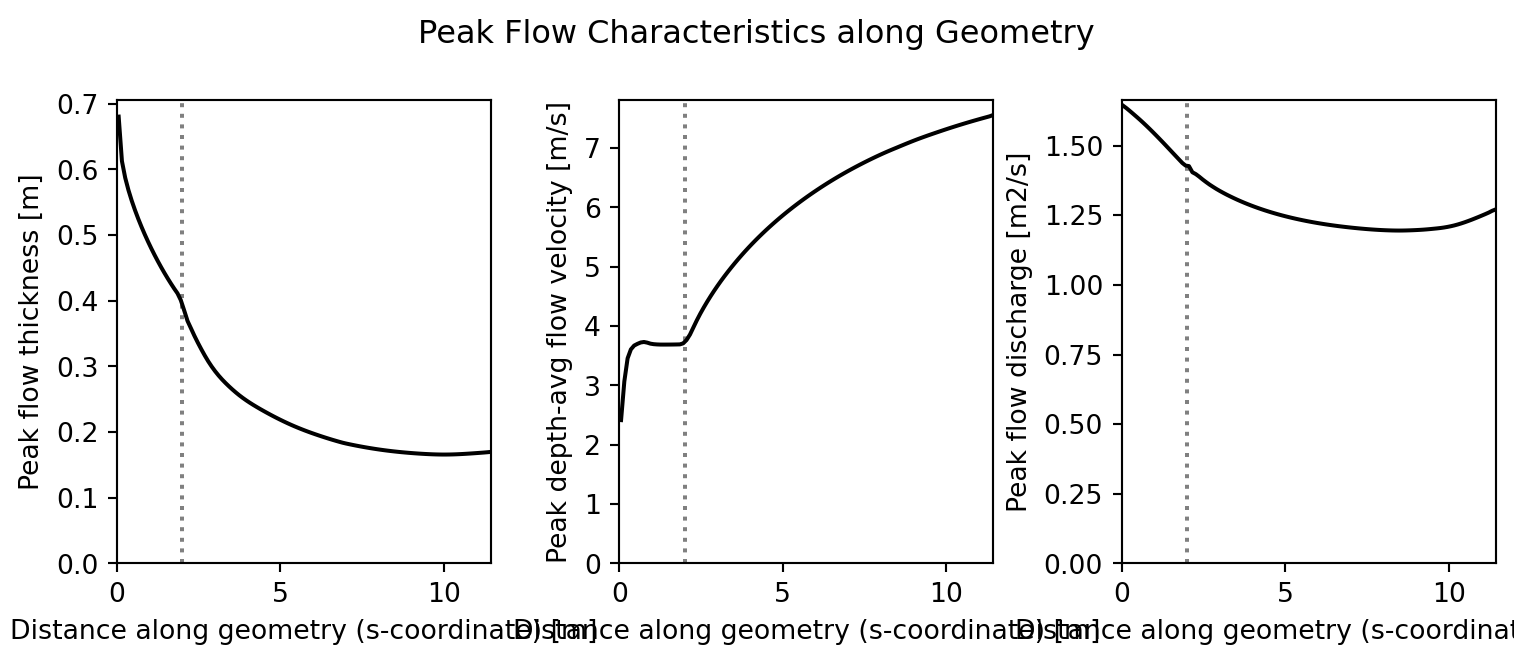
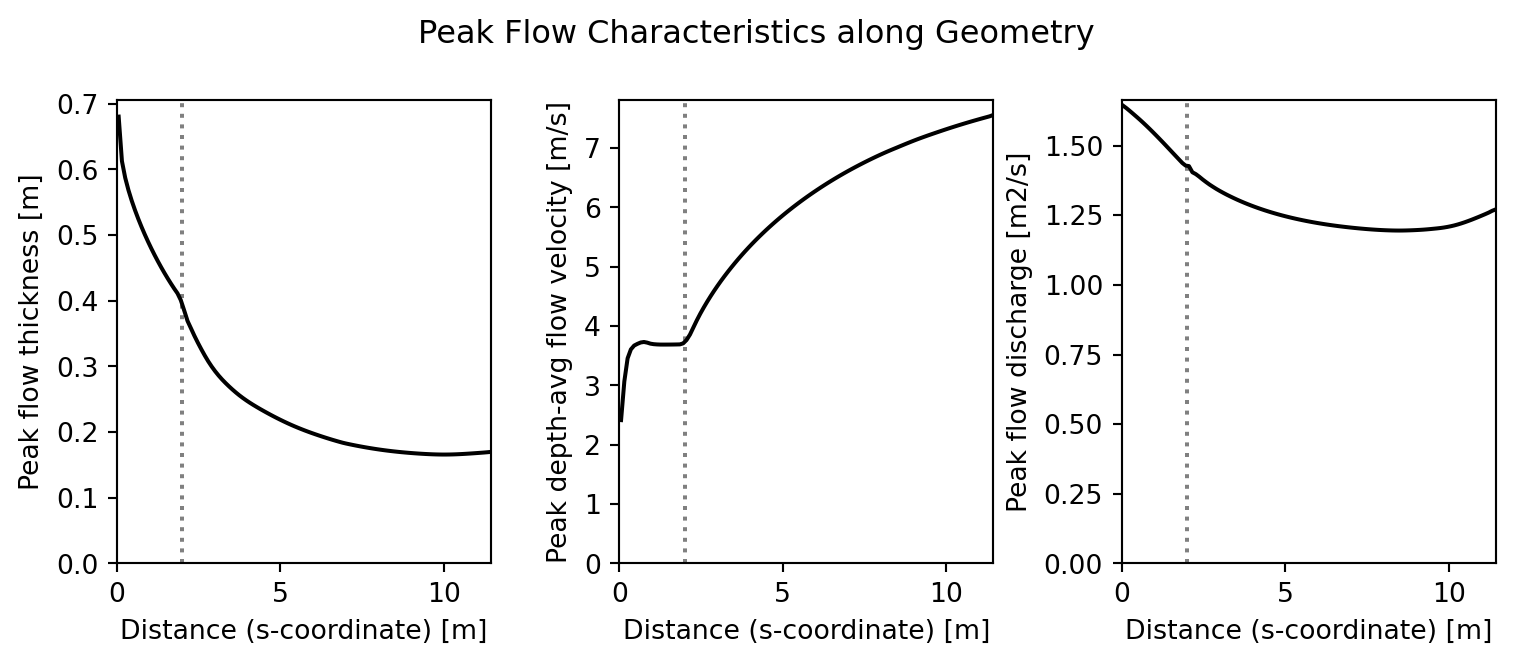
deploy: 645d021af738228c2d3d73dcb12be5013b461c52

Changed region(s): [[0.0, 0.9337, 1.0, 0.9639]]

diff --git a/examples/notebooks/basic_example.html b/examples/notebooks/basic_example.html
@@ -224,10 +224,10 @@ pre > code.sourceCode > span > a:first-child::before { text-decoration: underlin
 <span id="cb3-10"><a href="#cb3-10" aria-hidden="true" tabindex="-1"></a><span class="co"># 4) Run the simulation</span></span>
 <span id="cb3-11"><a href="#cb3-11" aria-hidden="true" tabindex="-1"></a>results <span class="op">=</span> sim.run(geometry, bc, Limiter.minmod, Flux.HLL, TimeIntegration.EF)</span></code><button title="Copy to Clipboard" class="code-copy-button"><i class="bi"></i></button></pre></div>
 <div class="cell-output cell-output-stderr">
-<pre><code>Simulating:   0%|          | 0.00/10.00 sSimulating:   6%|▌         | 0.55/10.00 sSimulating:  11%|█         | 1.10/10.00 sSimulating:  15%|█▍        | 1.49/10.00 sSimulating:  18%|█▊        | 1.78/10.00 sSimulating:  20%|██        | 2.01/10.00 sSimulating:  22%|██▏       | 2.19/10.00 sSimulating:  23%|██▎       | 2.33/10.00 sSimulating:  25%|██▍       | 2.45/10.00 sSimulating:  26%|██▌       | 2.56/10.00 sSimulating:  27%|██▋       | 2.65/10.00 sSimulating:  27%|██▋       | 2.74/10.00 sSimulating:  28%|██▊       | 2.82/10.00 sSimulating:  29%|██▉       | 2.89/10.00 sSimulating:  30%|██▉       | 2.96/10.00 sSimulating:  30%|███       | 3.03/10.00 sSimulating:  31%|███       | 3.10/10.00 sSimulating:  32%|███▏      | 3.17/10.00 sSimulating:  32%|███▏      | 3.24/10.00 sSimulating:  33%|███▎      | 3.31/10.00 sSimulating:  34%|███▍      | 3.38/10.00 sSimulating:  35%|███▍      | 3.45/10.00 sSimulating:  35%|███▌      | 3.52/10.00 sSimulating:  36%|███▌      | 3.59/10.00 sSimulating:  37%|███▋      | 3.66/10.00 sSimulating:  37%|███▋      | 3.73/10.00 sSimulating:  38%|███▊      | 3.81/10.00 sSimulating:  39%|███▉      | 3.88/10.00 sSimulating:  40%|███▉      | 3.95/10.00 sSimulating:  40%|████      | 4.03/10.00 sSimulating:  41%|████      | 4.11/10.00 sSimulating:  42%|████▏     | 4.18/10.00 sSimulating:  43%|████▎     | 4.26/10.00 sSimulating:  43%|████▎     | 4.34/10.00 sSimulating:  44%|████▍     | 4.42/10.00 sSimulating:  45%|████▌     | 4.50/10.00 sSimulating:  46%|████▌     | 4.58/10.00 sSimulating:  47%|████▋     | 4.67/10.00 sSimulating:  48%|████▊     | 4.75/10.00 sSimulating:  48%|████▊     | 4.84/10.00 sSimulating:  49%|████▉     | 4.93/10.00 sSimulating:  50%|█████     | 5.02/10.00 sSimulating:  51%|█████     | 5.11/10.00 sSimulating:  52%|█████▏    | 5.21/10.00 sSimulating:  53%|█████▎    | 5.30/10.00 sSimulating:  54%|█████▍    | 5.40/10.00 sSimulating:  55%|█████▌    | 5.51/10.00 sSimulating:  56%|█████▌    | 5.61/10.00 sSimulating:  57%|█████▋    | 5.72/10.00 sSimulating:  58%|█████▊    | 5.84/10.00 sSimulating:  60%|█████▉    | 5.95/10.00 sSimulating:  61%|██████    | 6.08/10.00 sSimulating:  62%|██████▏   | 6.20/10.00 sSimulating:  63%|██████▎   | 6.34/10.00 sSimulating:  65%|██████▍   | 6.48/10.00 sSimulating:  66%|██████▋   | 6.63/10.00 sSimulating:  68%|██████▊   | 6.78/10.00 sSimulating:  69%|██████▉   | 6.94/10.00 sSimulating:  71%|███████   | 7.11/10.00 sSimulating:  73%|███████▎  | 7.29/10.00 sSimulating:  75%|███████▍  | 7.48/10.00 sSimulating:  77%|███████▋  | 7.68/10.00 sSimulating:  79%|███████▉  | 7.88/10.00 sSimulating:  81%|████████  | 8.11/10.00 sSimulating:  83%|████████▎ | 8.34/10.00 sSimulating:  86%|████████▌ | 8.58/10.00 sSimulating:  88%|████████▊ | 8.83/10.00 sSimulating:  91%|█████████ | 9.08/10.00 sSimulating:  93%|█████████▎| 9.33/10.00 sSimulating:  96%|█████████▌| 9.58/10.00 sSimulating:  98%|█████████▊| 9.83/10.00 sSimulating: 100%|██████████| 10.00/10.00 s</code></pre>
+<pre><code>Simulating:   0%|          | 0.00/10.00 sSimulating:   6%|▌         | 0.57/10.00 sSimulating:  11%|█▏        | 1.13/10.00 sSimulating:  15%|█▌        | 1.54/10.00 sSimulating:  18%|█▊        | 1.83/10.00 sSimulating:  21%|██        | 2.05/10.00 sSimulating:  22%|██▏       | 2.23/10.00 sSimulating:  24%|██▍       | 2.38/10.00 sSimulating:  25%|██▌       | 2.50/10.00 sSimulating:  26%|██▌       | 2.61/10.00 sSimulating:  27%|██▋       | 2.70/10.00 sSimulating:  28%|██▊       | 2.78/10.00 sSimulating:  29%|██▊       | 2.86/10.00 sSimulating:  29%|██▉       | 2.94/10.00 sSimulating:  30%|███       | 3.02/10.00 sSimulating:  31%|███       | 3.09/10.00 sSimulating:  32%|███▏      | 3.16/10.00 sSimulating:  32%|███▏      | 3.24/10.00 sSimulating:  33%|███▎      | 3.31/10.00 sSimulating:  34%|███▍      | 3.38/10.00 sSimulating:  35%|███▍      | 3.45/10.00 sSimulating:  35%|███▌      | 3.53/10.00 sSimulating:  36%|███▌      | 3.60/10.00 sSimulating:  37%|███▋      | 3.68/10.00 sSimulating:  38%|███▊      | 3.75/10.00 sSimulating:  38%|███▊      | 3.83/10.00 sSimulating:  39%|███▉      | 3.91/10.00 sSimulating:  40%|███▉      | 3.98/10.00 sSimulating:  41%|████      | 4.06/10.00 sSimulating:  41%|████▏     | 4.14/10.00 sSimulating:  42%|████▏     | 4.22/10.00 sSimulating:  43%|████▎     | 4.30/10.00 sSimulating:  44%|████▍     | 4.39/10.00 sSimulating:  45%|████▍     | 4.47/10.00 sSimulating:  46%|████▌     | 4.56/10.00 sSimulating:  46%|████▋     | 4.64/10.00 sSimulating:  47%|████▋     | 4.73/10.00 sSimulating:  48%|████▊     | 4.82/10.00 sSimulating:  49%|████▉     | 4.91/10.00 sSimulating:  50%|█████     | 5.01/10.00 sSimulating:  51%|█████     | 5.10/10.00 sSimulating:  52%|█████▏    | 5.20/10.00 sSimulating:  53%|█████▎    | 5.30/10.00 sSimulating:  54%|█████▍    | 5.41/10.00 sSimulating:  55%|█████▌    | 5.52/10.00 sSimulating:  56%|█████▋    | 5.63/10.00 sSimulating:  57%|█████▋    | 5.74/10.00 sSimulating:  59%|█████▊    | 5.86/10.00 sSimulating:  60%|█████▉    | 5.98/10.00 sSimulating:  61%|██████    | 6.11/10.00 sSimulating:  62%|██████▏   | 6.25/10.00 sSimulating:  64%|██████▍   | 6.39/10.00 sSimulating:  65%|██████▌   | 6.54/10.00 sSimulating:  67%|██████▋   | 6.69/10.00 sSimulating:  69%|██████▊   | 6.86/10.00 sSimulating:  70%|███████   | 7.03/10.00 sSimulating:  72%|███████▏  | 7.21/10.00 sSimulating:  74%|███████▍  | 7.40/10.00 sSimulating:  76%|███████▌  | 7.57/10.00 sSimulating:  78%|███████▊  | 7.77/10.00 sSimulating:  80%|███████▉  | 7.99/10.00 sSimulating:  82%|████████▏ | 8.23/10.00 sSimulating:  85%|████████▍ | 8.48/10.00 sSimulating:  87%|████████▋ | 8.73/10.00 sSimulating:  90%|████████▉ | 8.98/10.00 sSimulating:  92%|█████████▏| 9.24/10.00 sSimulating:  95%|█████████▍| 9.49/10.00 sSimulating:  97%|█████████▋| 9.74/10.00 sSimulating: 100%|██████████| 10.00/10.00 sSimulating: 100%|██████████| 10.00/10.00 s</code></pre>
 </div>
 <div class="cell-output cell-output-stdout">
-<pre><code>Simulation done in 8.20 sec</code></pre>
+<pre><code>Simulation done in 7.94 sec</code></pre>
 </div>
 <div class="cell-output cell-output-stderr">
 <pre><code></code></pre>
@@ -247,7 +247,7 @@ pre > code.sourceCode > span > a:first-child::before { text-decoration: underlin
 <span id="cb7-11"><a href="#cb7-11" aria-hidden="true" tabindex="-1"></a>ax2.plot(results.s, q, color<span class="op">=</span><span class="st">"black"</span>)</span>
 <span id="cb7-12"><a href="#cb7-12" aria-hidden="true" tabindex="-1"></a></span>
 <span id="cb7-13"><a href="#cb7-13" aria-hidden="true" tabindex="-1"></a><span class="co"># Plot layout</span></span>
-<span id="cb7-14"><a href="#cb7-14" aria-hidden="true" tabindex="-1"></a>[ax.set_xlabel(<span class="st">"Distance along geometry (s-coordinate) [m]"</span>) <span class="cf">for</span> ax <span class="kw">in</span> [ax0, ax1, ax2]]</span>
+<span id="cb7-14"><a href="#cb7-14" aria-hidden="true" tabindex="-1"></a>[ax.set_xlabel(<span class="st">"Distance (s-coordinate) [m]"</span>) <span class="cf">for</span> ax <span class="kw">in</span> [ax0, ax1, ax2]]</span>
 <span id="cb7-15"><a href="#cb7-15" aria-hidden="true" tabindex="-1"></a>ax0.set_ylabel(<span class="st">"Peak flow thickness [m]"</span>)</span>
 <span id="cb7-16"><a href="#cb7-16" aria-hidden="true" tabindex="-1"></a>ax1.set_ylabel(<span class="st">"Peak depth-avg flow velocity [m/s]"</span>)</span>
 <span id="cb7-17"><a href="#cb7-17" aria-hidden="true" tabindex="-1"></a>ax2.set_ylabel(<span class="st">"Peak flow discharge [m2/s]"</span>)</span>

diff --git a/reference/BCOvertopping.html b/reference/BCOvertopping.html
@@ -179,7 +179,7 @@ pre > code.sourceCode > span > a:first-child::before { text-decoration: underlin
 
 <section id="boreflow.BCOvertopping" class="level1">
 <h1>BCOvertopping</h1>
-<div class="sourceCode" id="cb1"><pre class="sourceCode python code-with-copy"><code class="sourceCode python"><span id="cb1-1"><a href="#cb1-1" aria-hidden="true" tabindex="-1"></a>BCOvertopping(<span class="va">self</span>, volume, cota, tru_tovt<span class="op">=</span><span class="fl">0.01</span>, trh_tovt<span class="op">=</span><span class="fl">0.07</span>, unc_ppf<span class="op">=</span><span class="fl">0.5</span>)</span></code><button title="Copy to Clipboard" class="code-copy-button"><i class="bi"></i></button></pre></div>
+<div class="sourceCode" id="cb1"><pre class="sourceCode python code-with-copy"><code class="sourceCode python"><span id="cb1-1"><a href="#cb1-1" aria-hidden="true" tabindex="-1"></a>BCOvertopping(<span class="va">self</span>, volume, cota, tru_tovt<span class="op">=</span><span class="fl">0.01</span>, trh_tovt<span class="op">=</span><span class="fl">0.08</span>, unc_ppf<span class="op">=</span><span class="fl">0.5</span>)</span></code><button title="Copy to Clipboard" class="code-copy-button"><i class="bi"></i></button></pre></div>
 <p>Boundary condition for overtopping flow, based on empirical formulas from van der Meer et al.&nbsp;(2011), van Damme (2016), and Hughes et al.&nbsp;(2012), with uncertainty from van der Vegt et al.&nbsp;(2025).</p>
 <section id="attributes" class="level2 doc-section doc-section-attributes">
 <h2 class="doc-section doc-section-attributes anchored" data-anchor-id="attributes">Attributes</h2>
@@ -235,7 +235,7 @@ pre > code.sourceCode > span > a:first-child::before { text-decoration: underlin
 <tr class="even">
 <td>trh_tovt</td>
 <td>float</td>
-<td>Ratio between the time of hpeak and the overtopping time (tovt) (default: 0.07)</td>
+<td>Ratio between the time of hpeak and the overtopping time (tovt) (default: 0.08)</td>
 </tr>
 <tr class="odd">
 <td>coef</td>

diff --git a/reference/BCWOSMillingen.html b/reference/BCWOSMillingen.html
@@ -179,7 +179,7 @@ pre > code.sourceCode > span > a:first-child::before { text-decoration: underlin
 
 <section id="boreflow.BCWOSMillingen" class="level1">
 <h1>BCWOSMillingen</h1>
-<div class="sourceCode" id="cb1"><pre class="sourceCode python code-with-copy"><code class="sourceCode python"><span id="cb1-1"><a href="#cb1-1" aria-hidden="true" tabindex="-1"></a>BCWOSMillingen(<span class="va">self</span>, volume, tru_tovt<span class="op">=</span><span class="fl">0.01</span>, trh_tovt<span class="op">=</span><span class="fl">0.07</span>)</span></code><button title="Copy to Clipboard" class="code-copy-button"><i class="bi"></i></button></pre></div>
+<div class="sourceCode" id="cb1"><pre class="sourceCode python code-with-copy"><code class="sourceCode python"><span id="cb1-1"><a href="#cb1-1" aria-hidden="true" tabindex="-1"></a>BCWOSMillingen(<span class="va">self</span>, volume, tru_tovt<span class="op">=</span><span class="fl">0.01</span>, trh_tovt<span class="op">=</span><span class="fl">0.08</span>)</span></code><button title="Copy to Clipboard" class="code-copy-button"><i class="bi"></i></button></pre></div>
 <p>Boundary condition for overtopping flow, based on fit observed at the first measurement location and the temporal flow profile of Hughes et al.&nbsp;(2012).</p>
 <section id="attributes" class="level2 doc-section doc-section-attributes">
 <h2 class="doc-section doc-section-attributes anchored" data-anchor-id="attributes">Attributes</h2>
@@ -225,7 +225,7 @@ pre > code.sourceCode > span > a:first-child::before { text-decoration: underlin
 <tr class="even">
 <td>trh_tovt</td>
 <td>float</td>
-<td>Ratio between the time of hpeak and the overtopping time (tovt) (default: 0.07)</td>
+<td>Ratio between the time of hpeak and the overtopping time (tovt) (default: 0.08)</td>
 </tr>
 <tr class="odd">
 <td>coef</td>

diff --git a/reference/BCWOSTholen.html b/reference/BCWOSTholen.html
@@ -179,7 +179,7 @@ pre > code.sourceCode > span > a:first-child::before { text-decoration: underlin
 
 <section id="boreflow.BCWOSTholen" class="level1">
 <h1>BCWOSTholen</h1>
-<div class="sourceCode" id="cb1"><pre class="sourceCode python code-with-copy"><code class="sourceCode python"><span id="cb1-1"><a href="#cb1-1" aria-hidden="true" tabindex="-1"></a>BCWOSTholen(<span class="va">self</span>, volume, tru_tovt<span class="op">=</span><span class="fl">0.01</span>, trh_tovt<span class="op">=</span><span class="fl">0.07</span>)</span></code><button title="Copy to Clipboard" class="code-copy-button"><i class="bi"></i></button></pre></div>
+<div class="sourceCode" id="cb1"><pre class="sourceCode python code-with-copy"><code class="sourceCode python"><span id="cb1-1"><a href="#cb1-1" aria-hidden="true" tabindex="-1"></a>BCWOSTholen(<span class="va">self</span>, volume, tru_tovt<span class="op">=</span><span class="fl">0.01</span>, trh_tovt<span class="op">=</span><span class="fl">0.08</span>)</span></code><button title="Copy to Clipboard" class="code-copy-button"><i class="bi"></i></button></pre></div>
 <p>Boundary condition for overtopping flow, based on fit observed at the first measurement location and the temporal flow profile of Hughes et al.&nbsp;(2012).</p>
 <section id="attributes" class="level2 doc-section doc-section-attributes">
 <h2 class="doc-section doc-section-attributes anchored" data-anchor-id="attributes">Attributes</h2>
@@ -225,7 +225,7 @@ pre > code.sourceCode > span > a:first-child::before { text-decoration: underlin
 <tr class="even">
 <td>trh_tovt</td>
 <td>float</td>
-<td>Ratio between the time of hpeak and the overtopping time (tovt) (default: 0.07)</td>
+<td>Ratio between the time of hpeak and the overtopping time (tovt) (default: 0.08)</td>
 </tr>
 <tr class="odd">
 <td>coef</td>

diff --git a/reference/BCWOSFD.html b/reference/BCWOSFD.html
@@ -179,7 +179,7 @@ pre > code.sourceCode > span > a:first-child::before { text-decoration: underlin
 
 <section id="boreflow.BCWOSFD" class="level1">
 <h1>BCWOSFD</h1>
-<div class="sourceCode" id="cb1"><pre class="sourceCode python code-with-copy"><code class="sourceCode python"><span id="cb1-1"><a href="#cb1-1" aria-hidden="true" tabindex="-1"></a>BCWOSFD(<span class="va">self</span>, volume, tru_tovt<span class="op">=</span><span class="fl">0.01</span>, trh_tovt<span class="op">=</span><span class="fl">0.07</span>)</span></code><button title="Copy to Clipboard" class="code-copy-button"><i class="bi"></i></button></pre></div>
+<div class="sourceCode" id="cb1"><pre class="sourceCode python code-with-copy"><code class="sourceCode python"><span id="cb1-1"><a href="#cb1-1" aria-hidden="true" tabindex="-1"></a>BCWOSFD(<span class="va">self</span>, volume, tru_tovt<span class="op">=</span><span class="fl">0.01</span>, trh_tovt<span class="op">=</span><span class="fl">0.08</span>)</span></code><button title="Copy to Clipboard" class="code-copy-button"><i class="bi"></i></button></pre></div>
 <p>Boundary condition for overtopping flow, based on fit observed at the first measurement location and the temporal flow profile of Hughes et al.&nbsp;(2012).</p>
 <section id="attributes" class="level2 doc-section doc-section-attributes">
 <h2 class="doc-section doc-section-attributes anchored" data-anchor-id="attributes">Attributes</h2>
@@ -225,7 +225,7 @@ pre > code.sourceCode > span > a:first-child::before { text-decoration: underlin
 <tr class="even">
 <td>trh_tovt</td>
 <td>float</td>
-<td>Ratio between the time of hpeak and the overtopping time (tovt) (default: 0.07)</td>
+<td>Ratio between the time of hpeak and the overtopping time (tovt) (default: 0.08)</td>
 </tr>
 <tr class="odd">
 <td>coef</td>
